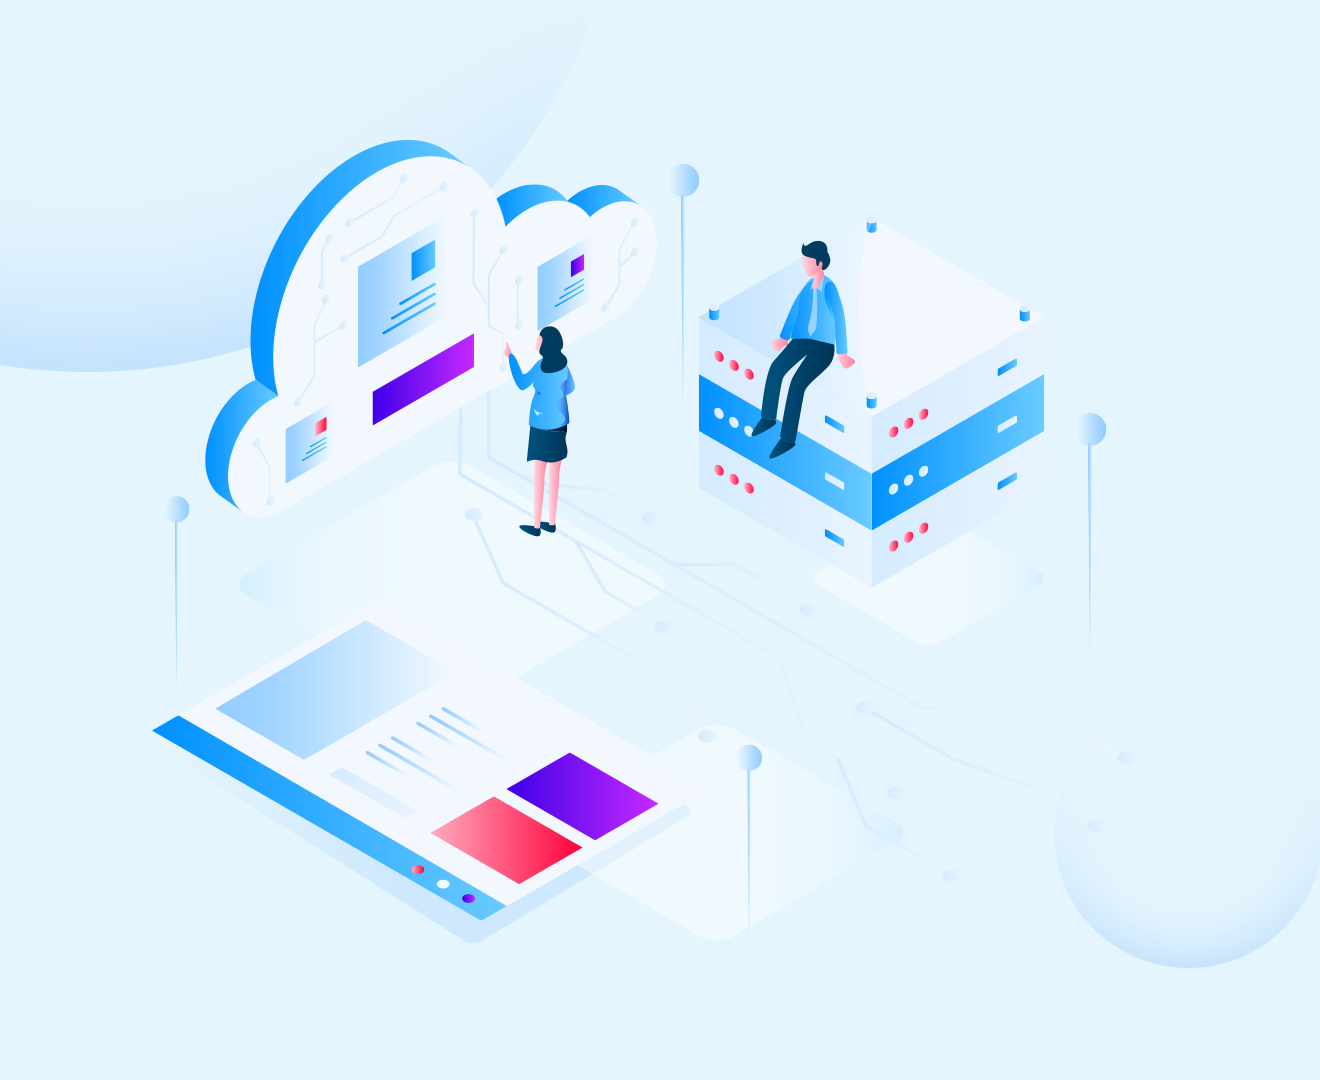
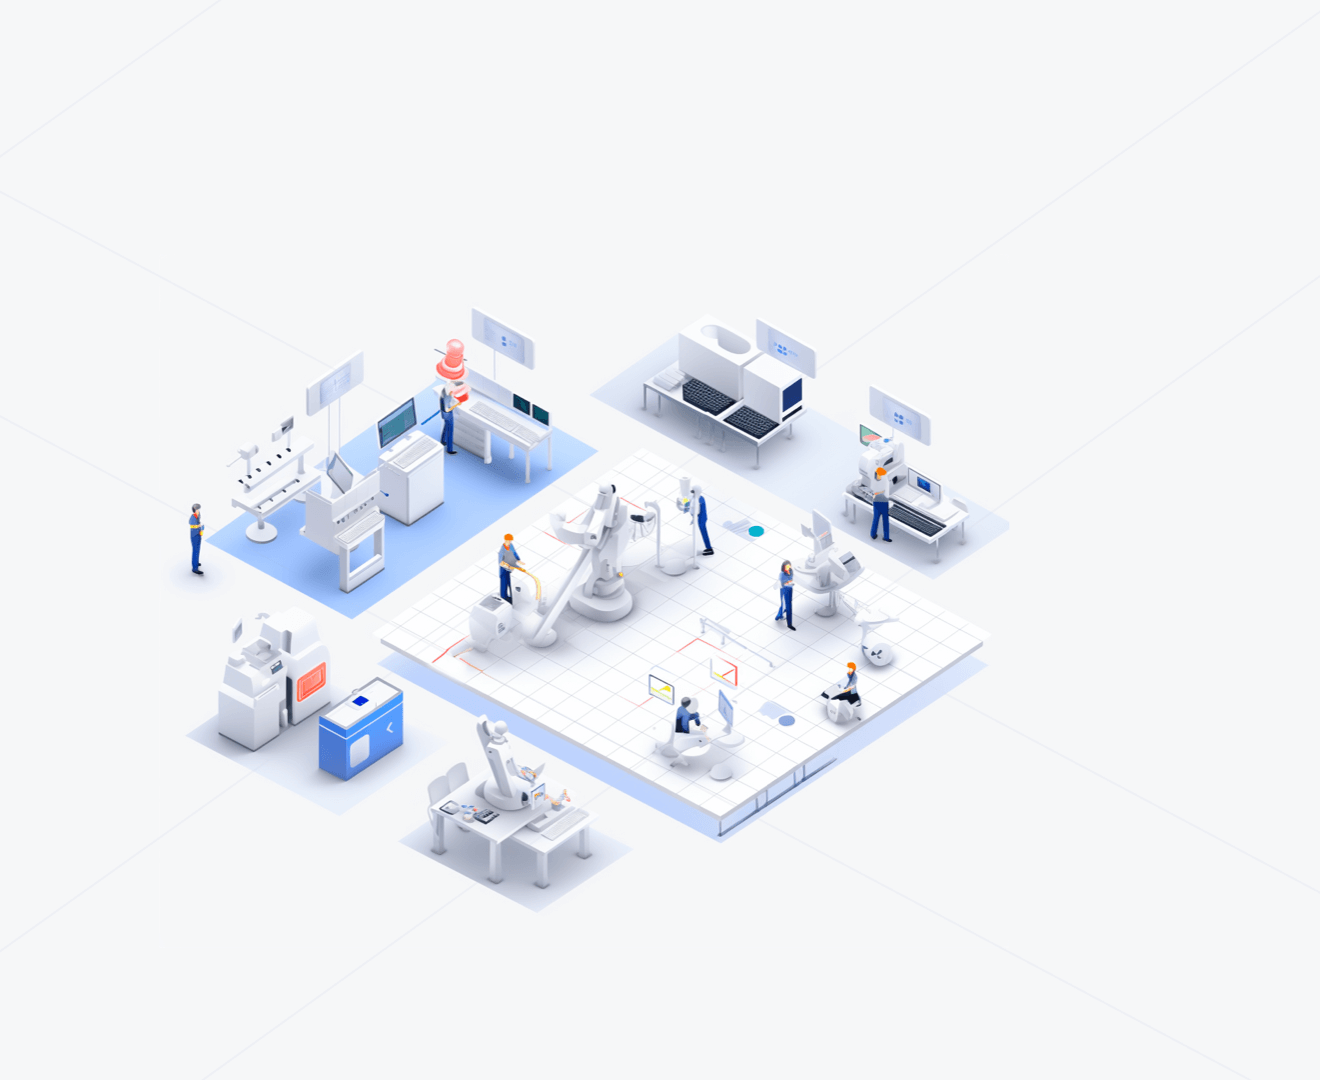
change login page backgroung

diff --git a/src/pages/LoginPage.vue b/src/pages/LoginPage.vue
@@ -1,12 +1,8 @@
 <template>
-  <div style="background-color: #e5f5fd; width: 100vw; height: 100vh">
-    <q-img
-      class="float-left"
-      src="~assets/login_background.png"
-      style="width: calc(100% - 600px); height: 100vh"
-    />
+  <div class="main-container">
+    <q-img class="login-background" src="~assets/login_background.png" />
 
-    <div class="login-container float-right">
+    <div class="login-container">
       <div class="column justify-center" style="height: 100vh">
         <div v-if="uat" class="col-auto self-center q-mb-md">
           <div class="text-h4 text-weight-bold text-center text-red">
@@ -144,10 +140,26 @@ const onSubmit = function () {
 </script>
 
 <style lang="sass" scoped>
-.login-container
-  width: 600px
+.main-container
+  position: relative
+  width: 100vw
   height: 100vh
-  border-radius: 50px 0 0 50px
-  padding: 0 110px
-  background-color: white
+
+  .login-background
+    position: absolute
+    top: 0
+    left: 0
+    z-index: -1
+    width: calc(100% - 550px)
+    height: 100vh
+
+  .login-container
+    position: absolute
+    top: 0
+    right: 0
+    width: 600px
+    height: 100vh
+    border-radius: 50px 0 0 50px
+    padding: 0 110px
+    background-color: white
 </style>
